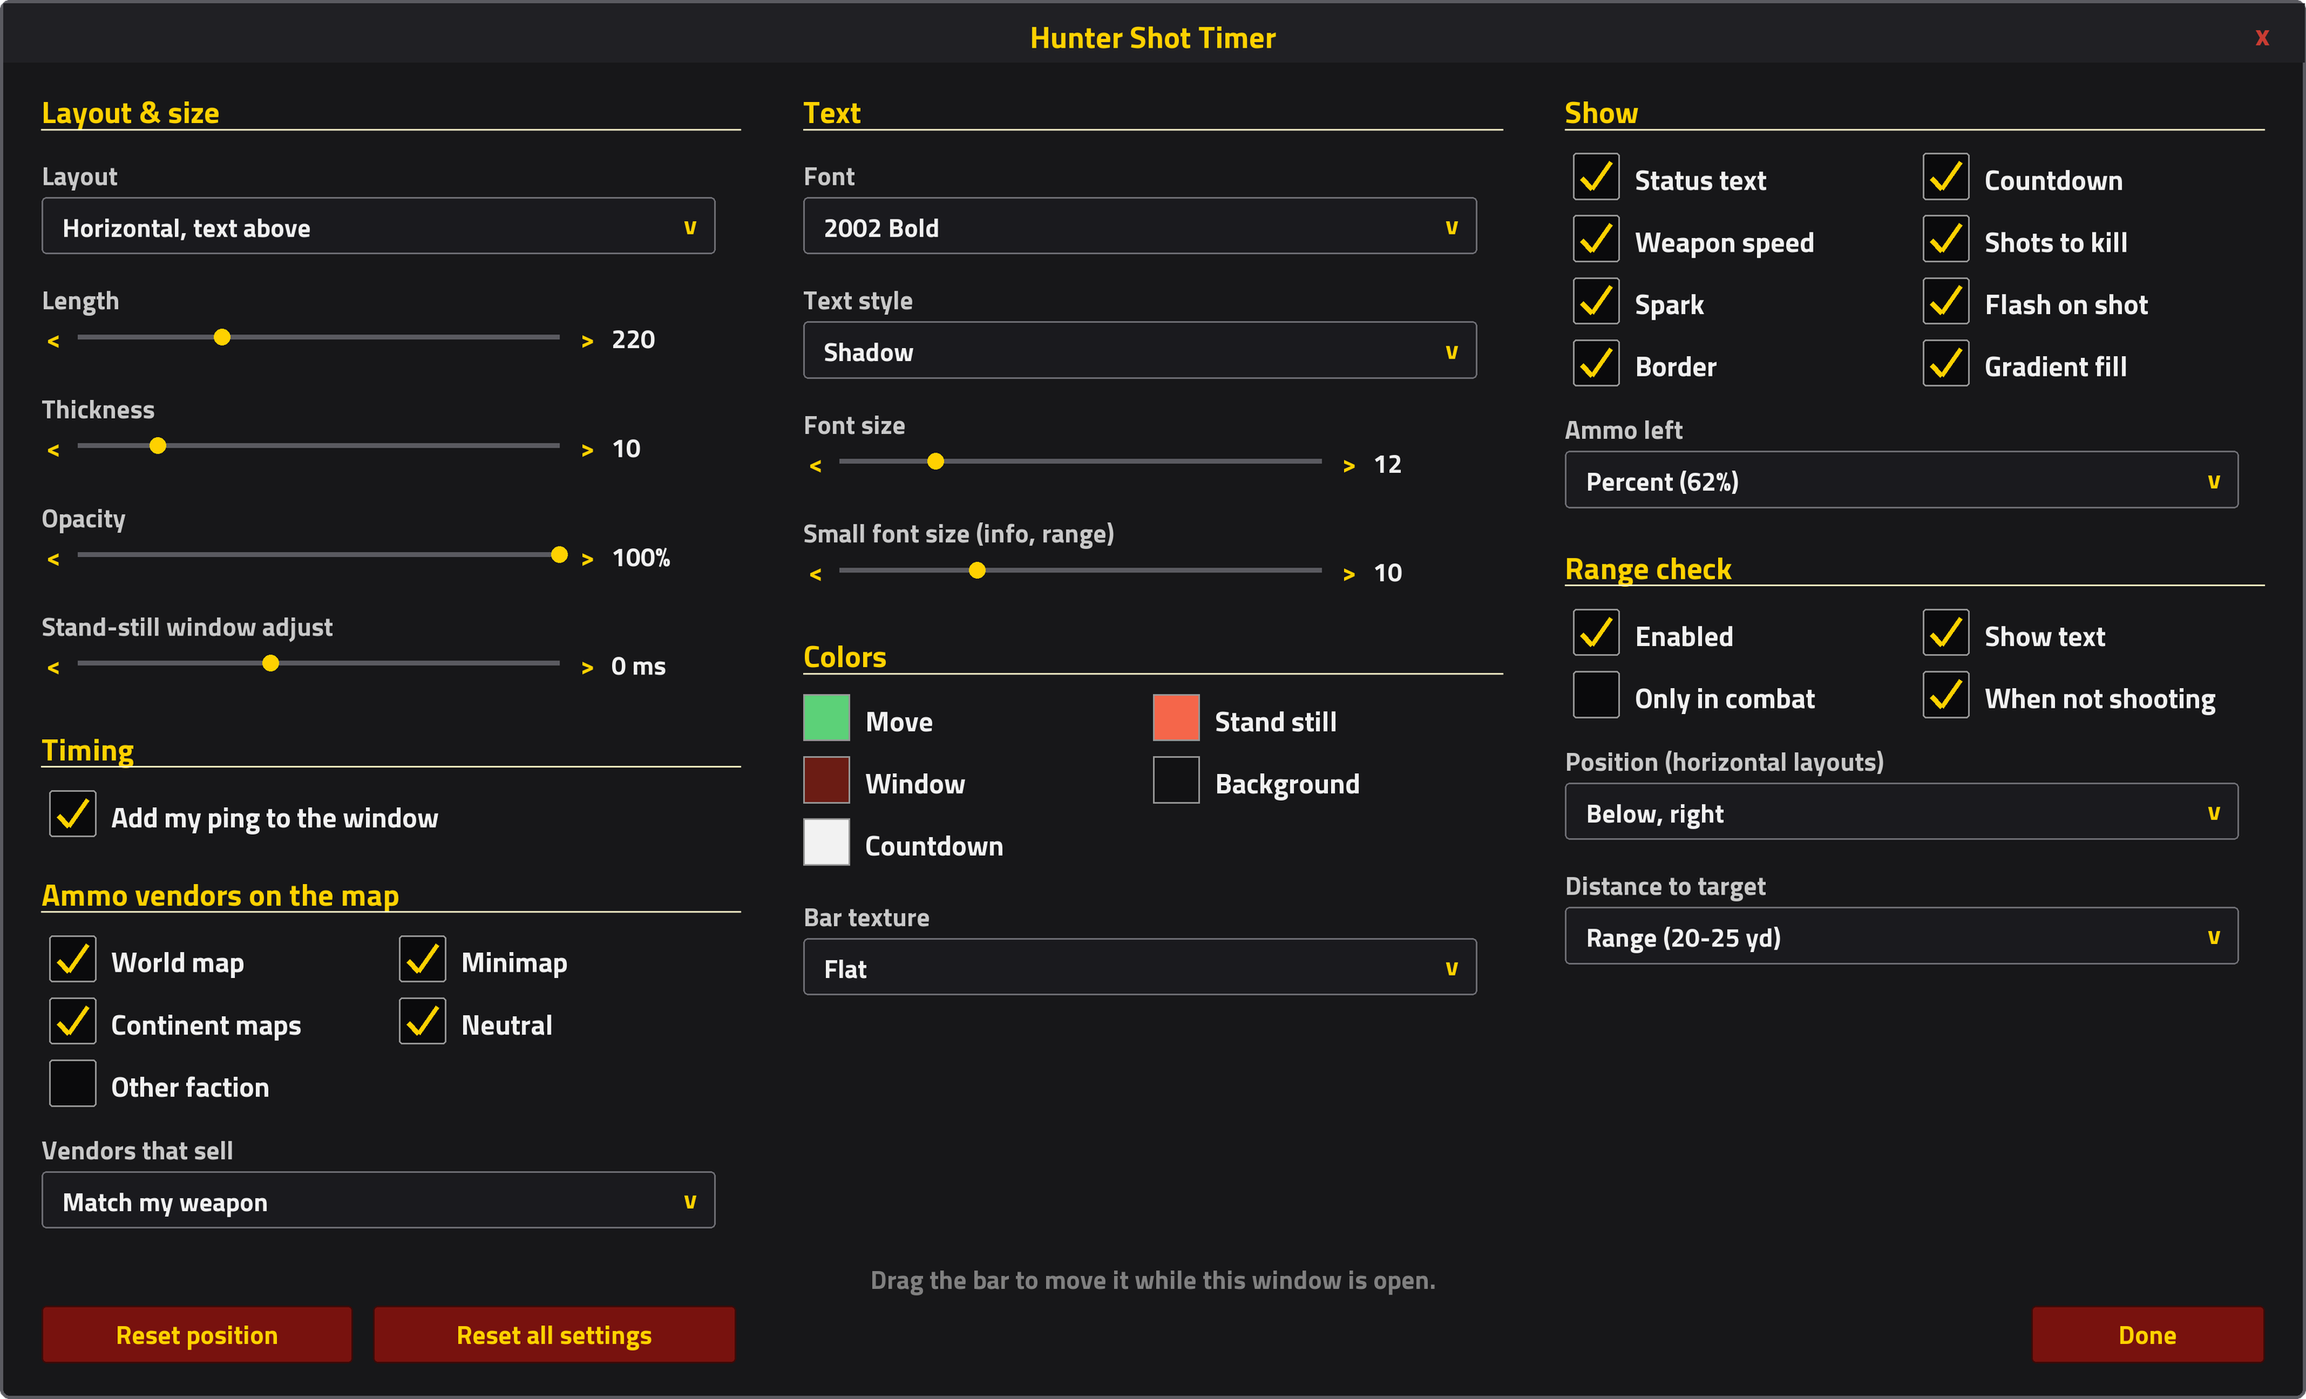
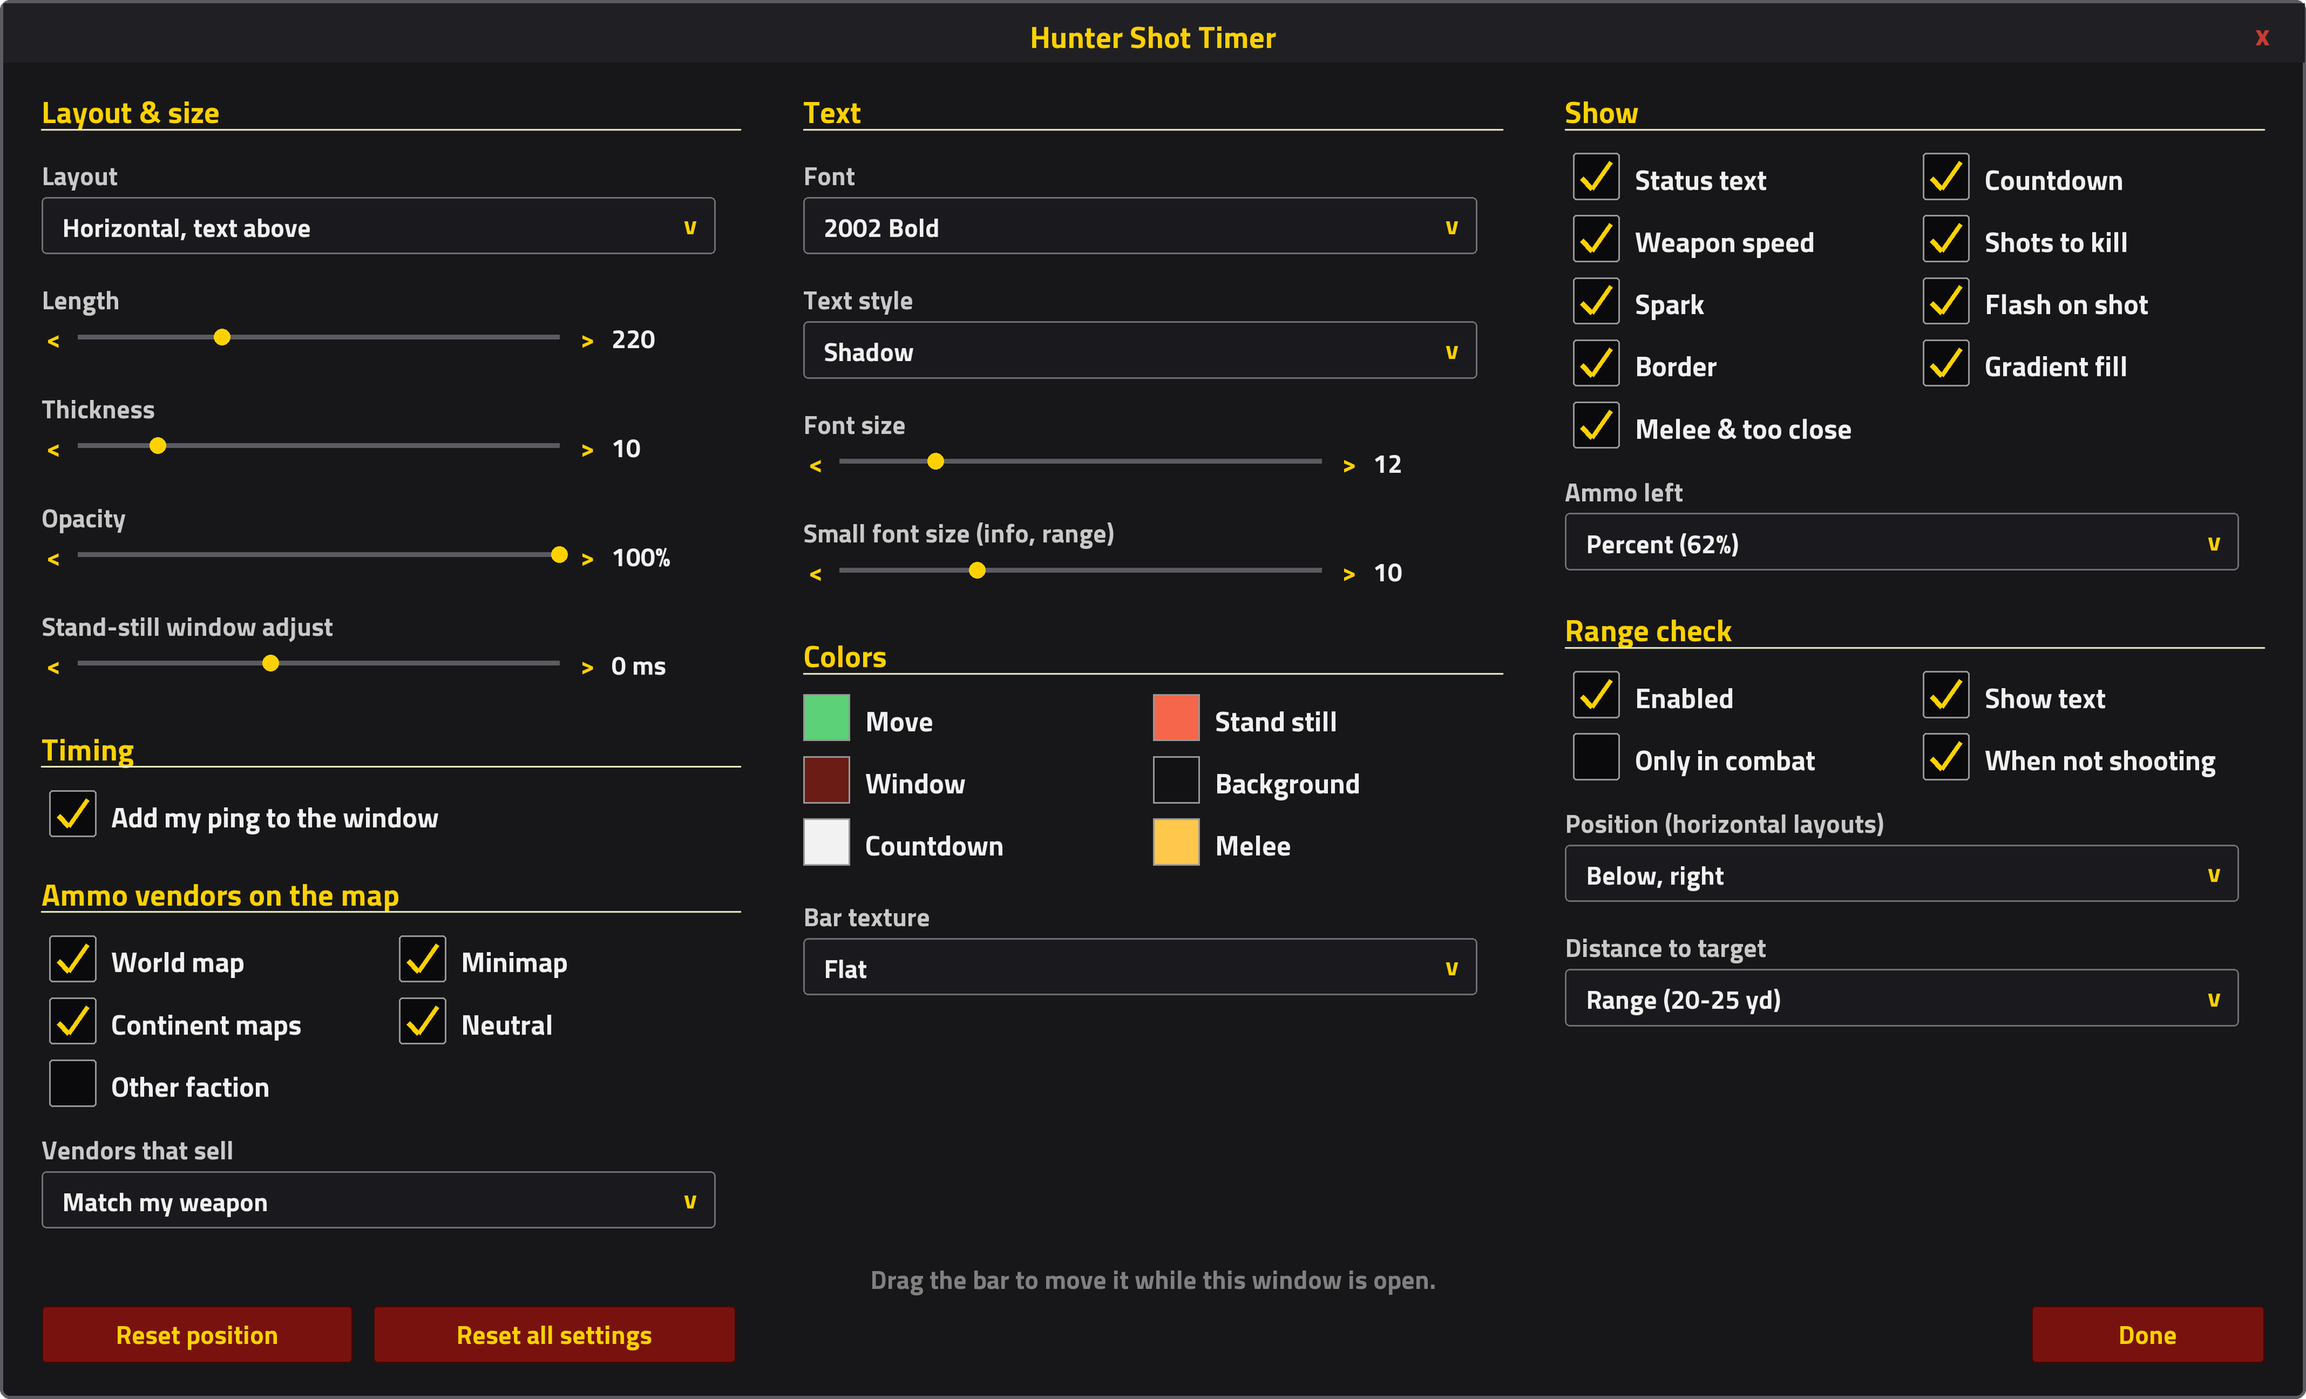
0.8.0: the bar stays in melee range
In melee range the bar no longer fades away. While you swing it times your
main-hand swings (MELEE, gold, no stand-still window, "1.80s melee"); in
combat but not swinging it says TOO CLOSE. Only for hunters, only with a
target actually in melee range, and the newest of shot/swing wins, so
stepping back and shooting brings the shot bar back at once. Option
"Melee & too close" and a Melee colour in /hst. Tests cover the new modes,
other classes, attack at range and a global-leak check.

diff --git a/tests/test_timer.py b/tests/test_timer.py
@@ -266,12 +266,18 @@ end
 def main():
     lua = lupa.LuaRuntime()
     lua.execute(MOCK)
+    lua.execute("before = {} for k in pairs(_G) do before[k] = true end")
     ns = lua.eval("{}")
     for name in FILES:
         chunk = lua.eval("function(src, name) return assert(loadstring(src, name)) end")(
             (ROOT / name).read_text(encoding="utf-8"), name)
         chunk("HunterShotTimer", ns)
     g = lua.globals()
+    # Only these may be global; anything else is a leak that could clash with other addons.
+    allowed = {"HunterShotTimerFrame", "HunterShotTimerVendorPinMixin", "SLASH_HUNTERSHOTTIMER1"}
+    leaked = {k for k in lua.eval("function() local t = {} for k in pairs(_G) do if not before[k] then t[#t + 1] = k end end return t end")().values()}
+    if leaked - allowed:
+        print("FAIL globals leaked:", sorted(leaked - allowed)); sys.exit(1)
     g.fillItems(ns)
     frame, timer, rng, target, bar = g.HunterShotTimerFrame, ns.timer, ns.range, g.target, ns.bar
     checks = []
@@ -415,7 +421,9 @@ def main():
     g.tick(14.1)
     check("late label back to stand still", "STAND STILL" in g.shownText())
     g.fire("PLAYER_SWING", 3.6, 0)
-    check("melee swing ignored", ns.state.speed == 2.8 and ns.state.lastShot == 10)
+    check("melee swing leaves Auto Shot alone", ns.state.speed == 2.8 and ns.state.lastShot == 10
+          and ns.melee.speed == 3.6)
+    ns.melee.lastSwing = None  # melee mode has its own tests below
     g.tick(14.2)
     g.fire("PLAYER_SWING", 2.0, 2)
     g.fire("PLAYER_SWING", 9.9, "SECRET")
@@ -429,12 +437,92 @@ def main():
     g.tick(17.0)
     check("hidden after stop", not timer.shown)
 
+    # --- Melee range: the bar stays and shows something useful -----------------------
+    target.exists, target.autoShot, target.close = True, False, True
+    g.fire("PLAYER_ENTER_COMBAT")
+    g.tick(17.5)
+    check("melee: bar up as soon as you attack a target in melee range", timer.shown and "MELEE" in g.shownText())
+    g.fire("PLAYER_SWING", 1.8, 0)
+    g.tick(18.0)
+    text = g.shownText()
+    check("melee: countdown to the next swing, melee speed", "MELEE" in text and "1.3" in text and "1.80s" in text)
+    check("melee: no Auto Shot kill count", "shot" not in text)
+    check("melee: no stand-still window", not ns.ui.zone.shown)
+    check("melee: info says melee", "1.80s melee" in text)
+    g.fire("PLAYER_LEAVE_COMBAT")
+    g.tick(19.5)
+    check("melee: the last swing finishes", "MELEE" in g.shownText())
+    g.tick(21.0)
+    check("melee: gone once you stop attacking (out of combat)", not timer.shown)
+    # In combat and too close, but not swinging: Auto Shot cannot fire, so say so.
+    g.combat = True
+    target.exists, target.autoShot, target.close = True, False, True
+    g.tick(21.6)
+    check("too close in combat: bar stays with TOO CLOSE", timer.shown and "TOO CLOSE" in g.shownText())
+    check("out of melee mode: stand-still window back", ns.ui.zone.shown)
+    g.combat = False
+    g.tick(22.6)
+    check("too close out of combat: bar goes", not timer.shown)
+    target.exists, target.close = False, False
+    db.showMelee = False
+    g.fire("PLAYER_ENTER_COMBAT")
+    g.fire("PLAYER_SWING", 1.8, 0)
+    g.tick(23.2)
+    check("melee option off: bar stays away", not timer.shown)
+    db.showMelee = True
+    g.fire("PLAYER_LEAVE_COMBAT")
+    ns.melee.lastSwing = None
+    # Auto Shot on: an "attack started" event alone must not turn the bar into MELEE.
+    g.fire("START_AUTOREPEAT_SPELL")
+    g.fire("PLAYER_SWING", 2.8, 2)
+    g.fire("PLAYER_ENTER_COMBAT")
+    g.tick(23.6)
+    check("shooting + attack event: still the shot bar", "MOVE" in g.shownText() and "MELEE" not in g.shownText())
+    # Melee swings while Auto Shot is toggled on (hunter in melee): melee wins...
+    g.fire("PLAYER_SWING", 1.8, 0)
+    g.tick(23.8)
+    check("melee swing while Auto Shot is on: MELEE", "MELEE" in g.shownText())
+    # ...until a shot fires after it: step back, shoot, and the shot bar is back at once.
+    g.fire("PLAYER_SWING", 2.8, 2)
+    g.tick(23.9)
+    check("shot after the swing: shot bar back at once", "MOVE" in g.shownText() and "MELEE" not in g.shownText())
+    g.fire("PLAYER_LEAVE_COMBAT")
+    g.fire("STOP_AUTOREPEAT_SPELL")
+    ns.melee.lastSwing = None
+    g.tick(27.5)
+    # Melee attack switched on with the target at range (right-click): no MELEE bar.
+    target.exists, target.autoShot, target.close = True, True, False
+    g.fire("PLAYER_ENTER_COMBAT")
+    g.tick(28.0)
+    check("attack on, target in shooting range: no MELEE", "MELEE" not in g.shownText() and not timer.shown)
+    target.close, target.autoShot = True, False  # it runs up to you
+    g.tick(28.4)
+    check("attack on, target now too close: MELEE", "MELEE" in g.shownText())
+    g.fire("PLAYER_LEAVE_COMBAT")
+    # From melee straight into a new layout and back to shooting: the window comes back.
+    g.fire("PLAYER_SWING", 1.8, 0)
+    g.tick(28.6)
+    db.layout = "row"
+    ns.ApplyLayout()
+    g.tick(28.7)
+    check("melee survives a layout change", "MELEE" in g.shownText() and not ns.ui.zone.shown)
+    g.fire("START_AUTOREPEAT_SPELL")
+    g.fire("PLAYER_SWING", 2.8, 2)
+    g.tick(28.9)
+    check("then shooting: shot bar with its window", "MOVE" in g.shownText() and ns.ui.zone.shown)
+    db.layout = "standard"
+    ns.ApplyLayout()
+    g.fire("STOP_AUTOREPEAT_SPELL")
+    target.exists, target.autoShot, target.close = False, None, False
+    ns.melee.lastSwing = None
+    g.tick(29.0)
+
     # Live ping from GetNetStats feeds the window within a few seconds.
     g.netWorld = 120
-    g.tick(24)
+    g.tick(35)
     check("live ping polled", abs(ns.Window() - 0.62) < 1e-9)
     g.netWorld = 0
-    g.tick(30)
+    g.tick(40)
 
     # --- Layout follows the settings -----------------------------------------------
     db.width, db.barHeight, db.fontSize, db.smallFontSize = 300, 20, 16, 11
@@ -565,7 +653,7 @@ def main():
     g.tick(37)
     check("demo shows while options open", timer.shown and rng.shown)
     boxes = list(g.checkboxes().values())
-    check("options has the checkboxes", len(boxes) == 18)
+    check("options has the checkboxes", len(boxes) == 19)
     first = boxes[6]  # "Status text" (left column first: ping, then the 5 vendor options)
     first.checked = False
     first.scripts.OnClick(first)
@@ -779,6 +867,10 @@ def main():
     g.fire("PLAYER_SWING", 1.8, 2)
     g.tick(51)
     check("no bar or range for other classes", not timer.shown and not rng.shown)
+    g.fire("PLAYER_ENTER_COMBAT")
+    g.fire("PLAYER_SWING", 1.8, 0)
+    g.tick(52)
+    check("no MELEE bar for other classes", not timer.shown and "MELEE" not in g.shownText())
     check("no vendor pins for other classes", pins(1429) == [] and mini() == [])
     check("messages in English", "Unlocked" in report and "Position reset" in report)
 

diff --git a/tools/render_previews.py b/tools/render_previews.py
@@ -25,6 +25,7 @@ ZONE = (0.42, 0.11, 0.08)
 TRACK = (0.07, 0.07, 0.08)
 TEXT = (0.95, 0.95, 0.95)
 MUTED = (0.62, 0.64, 0.67)
+MELEE = (1.00, 0.78, 0.30)
 RANGE = {"in": ("In range", (0.36, 0.82, 0.47)), "close": ("Too close", (1.00, 0.66, 0.20)),
          "far": ("Out of range", (0.96, 0.40, 0.29))}
 BANDS = [(70, "40d860"), (50, "a6d96a"), (30, "ffc04d"), (15, "ff8c2e"), (0, "f23a3a")]
@@ -90,10 +91,10 @@ def bullet_icon(d, x, y, size):
     d.rectangle([x0 + s * 0.3, y0 + s * 0.55, x0 + s * 0.7, y0 + s * 0.85], fill=(170, 120, 50, 255))
 
 
-def bar(img, x, y, length, thick, value, colour, speed=2.09, vertical=False):
+def bar(img, x, y, length, thick, value, colour, speed=2.09, vertical=False, window=WINDOW):
     """StatusBar with track, stand-still zone, gradient fill, divider, sheen, border, spark."""
     d = ImageDraw.Draw(img)
-    zone = length * min(WINDOW, speed) / speed
+    zone = length * min(window, speed) / speed
     if vertical:
         rect(d, x - 1, y - 1, x + thick + 1, y + length + 1, (0, 0, 0, 255))
         rect(d, x, y, x + thick, y + length, rgb(TRACK))
@@ -106,11 +107,13 @@ def bar(img, x, y, length, thick, value, colour, speed=2.09, vertical=False):
     else:
         rect(d, x - 1, y - 1, x + length + 1, y + thick + 1, (0, 0, 0, 255))
         rect(d, x, y, x + length, y + thick, rgb(TRACK))
-        rect(d, x + length - zone, y, x + length, y + thick, rgb(ZONE))
+        if zone > 0:
+            rect(d, x + length - zone, y, x + length, y + thick, rgb(ZONE))
         fill = length * value
         if fill > 0:
             gradient(img, x, y, x + fill, y + thick, rgb([c * 0.72 for c in colour]), rgb(colour))
-        d.line([((x + length - zone) * S, y * S), ((x + length - zone) * S, (y + thick) * S - 1)], fill=(255, 255, 255, 140), width=1)
+        if zone > 0:
+            d.line([((x + length - zone) * S, y * S), ((x + length - zone) * S, (y + thick) * S - 1)], fill=(255, 255, 255, 140), width=1)
         d.line([(x * S, y * S), ((x + length) * S - 1, y * S)], fill=(255, 255, 255, 30), width=1)
         spark_at = (x + fill, y + thick / 2)
     if 0 < value < 1:
@@ -143,7 +146,7 @@ def range_text(d, right_x, y, state, distance, align="right"):
     text(d, x0, y, s, SMALL, rgb(c), anchor="ls")
 
 
-def standard(img, ox, oy, status, scolour, countdown, value, pct, state, distance, info="2.09s   ~4 shots"):
+def standard(img, ox, oy, status, scolour, countdown, value, pct, state, distance, info="2.09s   ~4 shots", window=WINDOW, speed=2.09):
     d = ImageDraw.Draw(img)
     top = max(FONT_SIZE, SMALL) + GAP
     base = oy + top - GAP
@@ -154,7 +157,7 @@ def standard(img, ox, oy, status, scolour, countdown, value, pct, state, distanc
     if countdown:
         text(d, ox + WIDTH, base, countdown, FONT_SIZE, rgb(TEXT), anchor="rs", path=FONT_BOLD)
     ammo(d, ox + WIDTH - count_slot - ammo_w, base, pct)
-    bar(img, ox, oy + top, WIDTH, THICK, value, scolour)
+    bar(img, ox, oy + top, WIDTH, THICK, value, scolour, speed=speed, window=window)
     below = oy + top + THICK + GAP + SMALL
     text(d, ox, below, info, SMALL, rgb(MUTED), anchor="ls")
     range_text(d, ox + WIDTH, below, state, distance)
@@ -191,6 +194,17 @@ def render_phases():
     standard(img, x, y, "OUT OF RANGE", STAND, "", 1.0, 9, "far", "40-45 yd", info="2.09s")
     caption(img, x, 14, "Shot held up: target too far away")
     img.save(OUT / "bar-blocked.png")
+
+
+def render_melee():
+    img = canvas(520, 76)
+    x, y = 24, 22
+    standard(img, x, y, "MELEE", MELEE, "0.7", 0.61, 62, "close", "5-8 yd", info="1.80s melee", window=0, speed=1.8)
+    caption(img, x, 14, "Swinging in melee: time to your next swing")
+    x = 272
+    standard(img, x, y, "TOO CLOSE", STAND, "", 0.0, 62, "close", "5-8 yd", info="2.09s   ~4 shots")
+    caption(img, x, 14, "In combat, too close, not swinging")
+    img.save(OUT / "bar-melee.png")
 
 
 def render_layouts():
@@ -370,7 +384,7 @@ def render_settings():
     heading(MID, y, "Colors"); y -= 24
     swatch(MID, y, "Move", rgb(MOVE)); swatch(MID + COL / 2, y, "Stand still", rgb(STAND)); y -= 24
     swatch(MID, y, "Window", rgb(ZONE)); swatch(MID + COL / 2, y, "Background", rgb(TRACK)); y -= 24
-    swatch(MID, y, "Countdown", rgb(TEXT)); y -= 30
+    swatch(MID, y, "Countdown", rgb(TEXT)); swatch(MID + COL / 2, y, "Melee", rgb(MELEE)); y -= 30
     choice(MID, y, "Bar texture", "Flat")
 
     y = -34
@@ -378,7 +392,8 @@ def render_settings():
     checkbox(RIGHT, y, "Status text"); checkbox(RIGHT + COL / 2, y, "Countdown"); y -= 24
     checkbox(RIGHT, y, "Weapon speed"); checkbox(RIGHT + COL / 2, y, "Shots to kill"); y -= 24
     checkbox(RIGHT, y, "Spark"); checkbox(RIGHT + COL / 2, y, "Flash on shot"); y -= 24
-    checkbox(RIGHT, y, "Border"); checkbox(RIGHT + COL / 2, y, "Gradient fill"); y -= 30
+    checkbox(RIGHT, y, "Border"); checkbox(RIGHT + COL / 2, y, "Gradient fill"); y -= 24
+    checkbox(RIGHT, y, "Melee & too close"); y -= 30
     choice(RIGHT, y, "Ammo left", "Percent (62%)"); y -= 52
     heading(RIGHT, y, "Range check"); y -= 22
     checkbox(RIGHT, y, "Enabled"); checkbox(RIGHT + COL / 2, y, "Show text"); y -= 24
@@ -404,6 +419,7 @@ def render_settings():
 if __name__ == "__main__":
     OUT.mkdir(parents=True, exist_ok=True)
     render_phases()
+    render_melee()
     render_layouts()
     render_ammo()
     render_vendors()

diff --git a/README.md b/README.md
@@ -96,6 +96,21 @@ a swing takes effect from the next shot, exactly as the game does it. The number
 
 ## Features
 
+### Melee range: the bar stays
+
+When you are too close for Auto Shot, the bar does not disappear:
+
+![Melee swing timer and too close](docs/images/bar-melee.png)
+
+- **MELEE** (gold): while you auto-attack in melee, the bar times your main-hand swings,
+  with the countdown to the next one. Handy for Raptor Strike, which goes off with your next
+  swing. There is no stand-still window: melee does not need you to stand still.
+- **TOO CLOSE**: in combat, too close for Auto Shot and not swinging. Back off to 8 yards
+  or more, or start meleeing. Melee mode starts once you actually swing at a target in
+  melee range; switching attack on at range does not turn the bar into MELEE.
+
+Switch it off with **Melee & too close** in the settings; the melee colour is under Colors.
+
 ### Range check and distance
 
 A coloured dot and text under the bar: **In range**, **Too close** or **Out of range**, for a
@@ -160,8 +175,8 @@ anywhere on screen; closing the window locks it again. You can also open it from
 | **Timing** | Add your ping to the stand-still window (on by default) |
 | **Ammo vendors on the map** | World map, minimap, continent maps, neutral vendors, other faction, which vendors (match my weapon / arrows and bullets / arrows only / bullets only) |
 | **Text** | 16 fonts (2002 Bold by default), shadow or outline, font size, small font size |
-| **Colors** | Move, stand still, window, background, countdown |
-| **Show** | Status text, countdown, weapon speed, shots to kill, spark, flash, border, gradient fill, ammo left (off / percent / count) |
+| **Colors** | Move, stand still, window, background, countdown, melee |
+| **Show** | Status text, countdown, weapon speed, shots to kill, spark, flash, border, gradient fill, melee & too close, ammo left (off / percent / count) |
 | **Range check** | On/off, text, only in combat, also when not shooting, position, distance format |
 
 **Reset position** puts the bar back in its default place, just below the middle of the screen; **Reset all settings**
